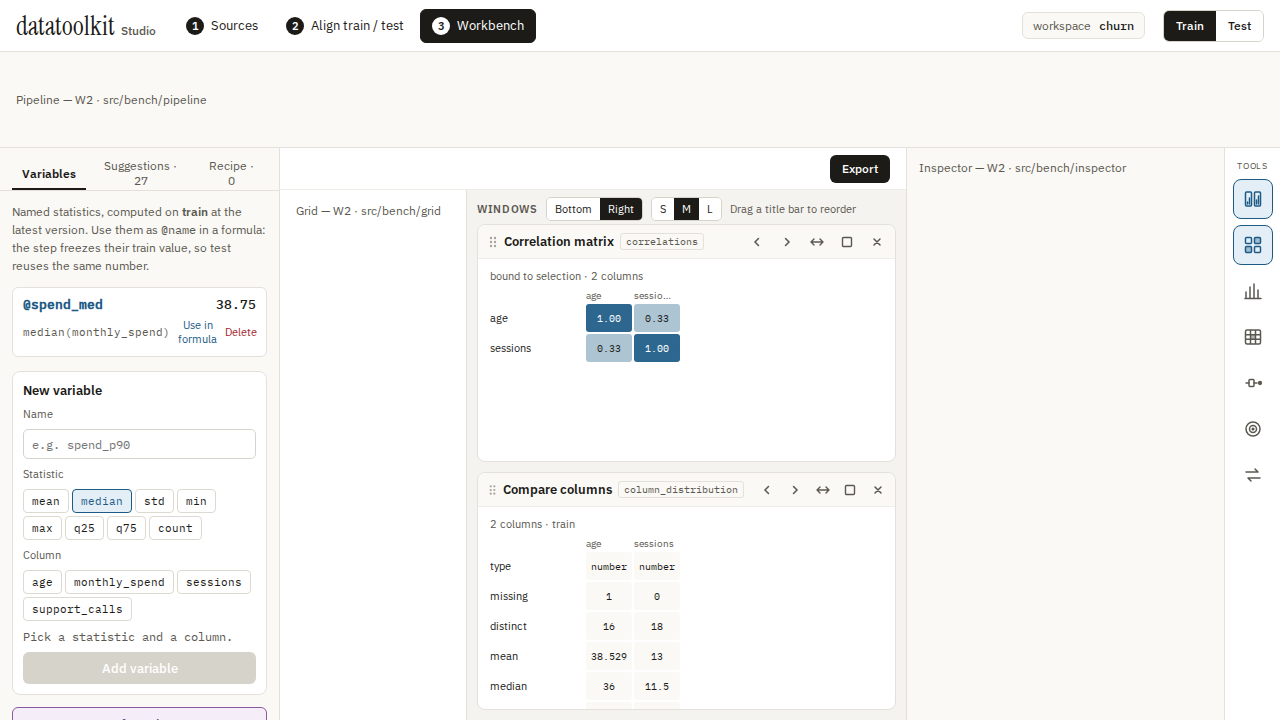
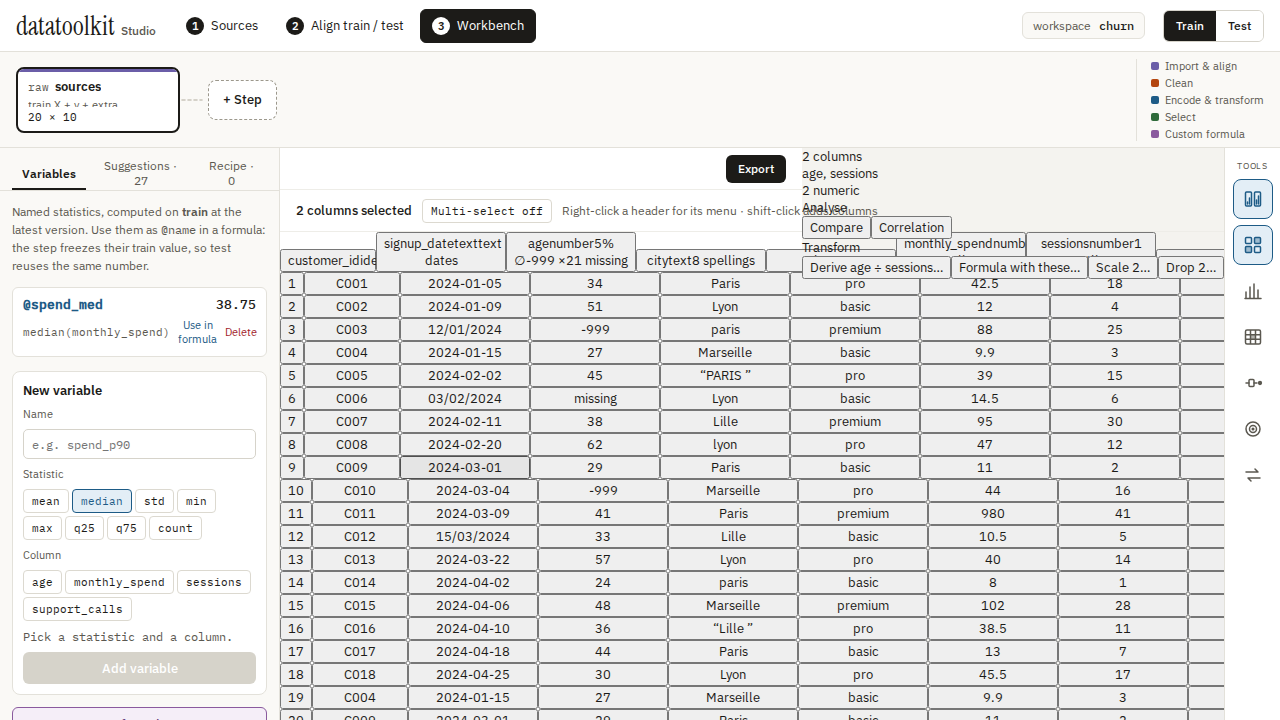
fix(workbench): rebase on W3 panels, quote spaced one-hot headers (MAT-134)
Rebase onto main after #2: keep W3 left/dock/export/toolrail with W2
pipeline/grid/inspector/editor; quote column names with leading/trailing
spaces like cells; retake 1440×900 screenshots with real side panels.

Changed region(s): [[0.2188, 0.2139, 0.9375, 1.0], [0.0, 0.0917, 0.2188, 0.1833], [0.875, 0.0917, 1.0, 0.2139]]

diff --git a/e2e/workbench.spec.ts b/e2e/workbench.spec.ts
@@ -72,8 +72,11 @@ test("workbench: replace sentinels → impute → one-hot → time travel → de
   await expect(page.getByText("Strategy", { exact: true })).toBeVisible({
     timeout: 15_000,
   });
-  await expect(page.getByRole("button", { name: "median" })).toBeVisible();
-  await expect(page.getByRole("button", { name: "most_frequent" })).toBeVisible();
+  const editor = page.getByLabel("Step editor");
+  await expect(editor.getByRole("button", { name: "median" })).toBeVisible();
+  await expect(
+    editor.getByRole("button", { name: "most_frequent" }),
+  ).toBeVisible();
   await expect(page.getByText("Add Indicator", { exact: true })).toBeVisible();
   await expect(page.getByText("Learned on train", { exact: true })).toBeVisible();
   await expect(page.locator(".ed-learned")).toContainText(/fill|age/i, {
@@ -102,7 +105,18 @@ test("workbench: replace sentinels → impute → one-hot → time travel → de
   const addedCol = page.locator(".grid-th.added").first();
   await expect(addedCol).toBeVisible({ timeout: 15_000 });
   const addedName = ((await addedCol.locator(".th-name").textContent()) ?? "").trim();
-  expect(addedName).toMatch(/^city_/);
+  // Strip curly quotes used when the category has leading/trailing spaces
+  const addedBare = addedName.replace(/^[“”"]|[“”"]$/g, "");
+  expect(addedBare).toMatch(/^city_/);
+  // city has both "Lille" and "Lille " → one header must show quoted trailing space
+  const quotedLille = page.locator(".grid-th.added .th-name", {
+    hasText: "city_Lille",
+  });
+  const quotedTexts = await quotedLille.allTextContents();
+  expect(
+    quotedTexts.some((t) => /[“"]city_Lille\s+[”"]/.test(t)),
+    `expected a quoted city_Lille-with-trailing-space header, got: ${JSON.stringify(quotedTexts)}`,
+  ).toBe(true);
   // First data cell of the first added column should be 0 or 1, not "missing"
   const firstAddedCell = page
     .locator(".grid-row")

diff --git a/src/bench/grid/Grid.tsx b/src/bench/grid/Grid.tsx
@@ -1,7 +1,7 @@
 import { useAppDispatch, useAppState } from "../../state/AppStore";
 import { colAlerts, isOutlierValue, missPct, profileBars } from "../alerts";
 import { cellTone } from "../diff";
-import { cellDisplay, fmt } from "../format";
+import { cellDisplay, fmt, nameDisplay } from "../format";
 import { colWidth, isNumericKind, KIND_BAR, KIND_LABEL } from "../kinds";
 import { useWorkbenchData } from "../WorkbenchData";
 
@@ -203,7 +203,7 @@ export function Grid() {
                         c.status === "removed" ? "th-name struck" : "th-name"
                       }
                     >
-                      {c.name}
+                      {nameDisplay(c.name)}
                     </span>
                     {isT ? (
                       <svg

diff --git a/tests/format.test.ts b/tests/format.test.ts
@@ -1,0 +1,12 @@
+import { describe, expect, it } from "vitest";
+import { cellDisplay, nameDisplay } from "../src/bench/format";
+
+describe("nameDisplay / cellDisplay quoting", () => {
+  it("quotes names with leading or trailing spaces like cells", () => {
+    expect(nameDisplay("city_Lille")).toBe("city_Lille");
+    expect(nameDisplay("city_Lille ")).toBe("“city_Lille ”");
+    expect(nameDisplay(" Lille")).toBe("“ Lille”");
+    expect(cellDisplay("Lille ")).toBe("“Lille ”");
+    expect(cellDisplay("Lille")).toBe("Lille");
+  });
+});

diff --git a/src/bench/format.ts b/src/bench/format.ts
@@ -29,6 +29,12 @@ export function cellDisplay(v: JsonValue | undefined): string {
   return fmt(v as JsonValue);
 }
 
+/** Column header / name display — quote leading/trailing spaces like cells. */
+export function nameDisplay(name: string): string {
+  if (name !== name.trim()) return `“${name}”`;
+  return name;
+}
+
 /** Render fitted state from preview_step.state as readable lines. */
 export function formatLearnedState(state: Record<string, JsonValue>): string {
   if (!state || Object.keys(state).length === 0) {

diff --git a/src/bench/inspector/Inspector.tsx b/src/bench/inspector/Inspector.tsx
@@ -270,7 +270,7 @@ export function Inspector() {
       const sent = pr.sentinel_candidates[0];
       if (sent) stats.push([String(sent.value), String(sent.count)]);
       if (pr.outliers) stats.push(["outliers", String(pr.outliers)]);
-    } else if (pr?.top_values[0]) {
+    } else if (pr?.top_values?.[0]) {
       stats.push([
         "top",
         `${String(pr.top_values[0].value)} (${pr.top_values[0].count})`,

diff --git a/src/bench/alerts.ts b/src/bench/alerts.ts
@@ -70,7 +70,7 @@ export function profileBars(
         label: "",
       });
     });
-  } else if (profile.top_values.length) {
+  } else if (profile.top_values && profile.top_values.length) {
     const limit =
       profile.kind === "date" || profile.kind === "identifier" ? 12 : 8;
     profile.top_values.slice(0, limit).forEach((tv) => {

diff --git a/src/bench/editor/StepEditor.tsx b/src/bench/editor/StepEditor.tsx
@@ -677,7 +677,7 @@ function CategoriesField({
     const seeded =
       order.length > 0
         ? order
-        : (pr?.top_values.map((t) => t.value) ?? []);
+        : (pr?.top_values?.map((t) => t.value) ?? []);
     onChange({ [name]: seeded });
   };
 
